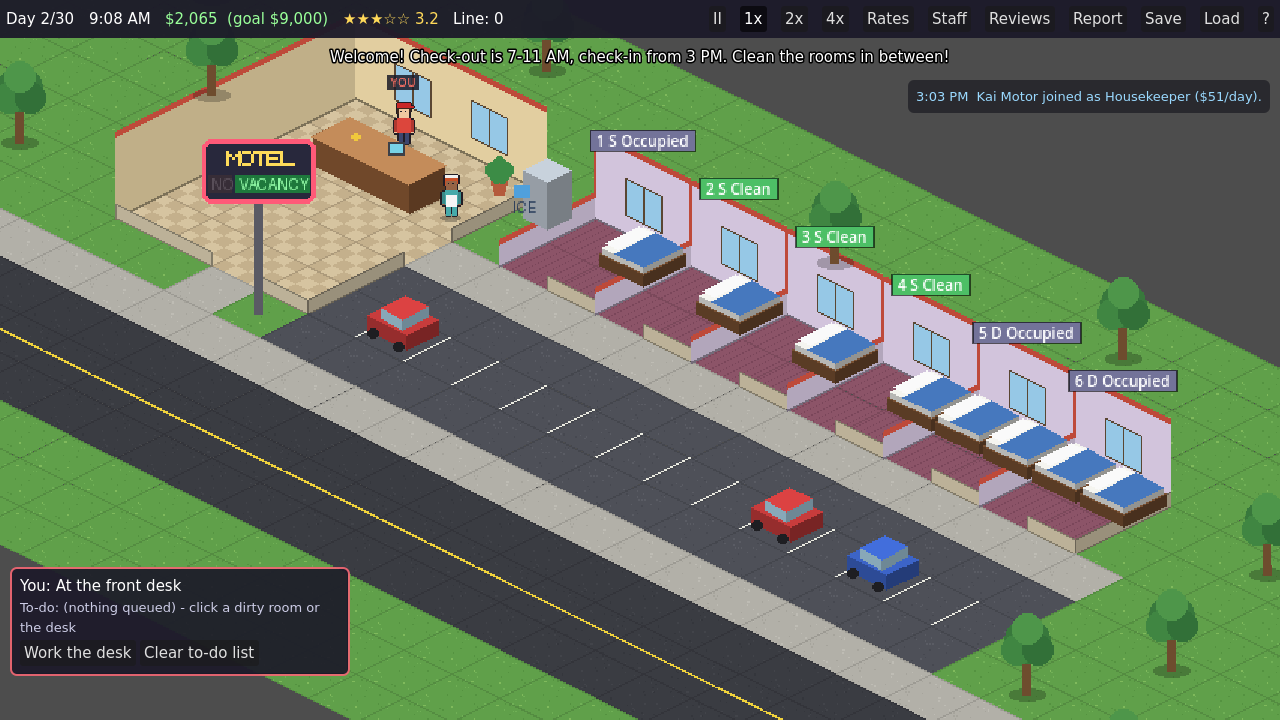
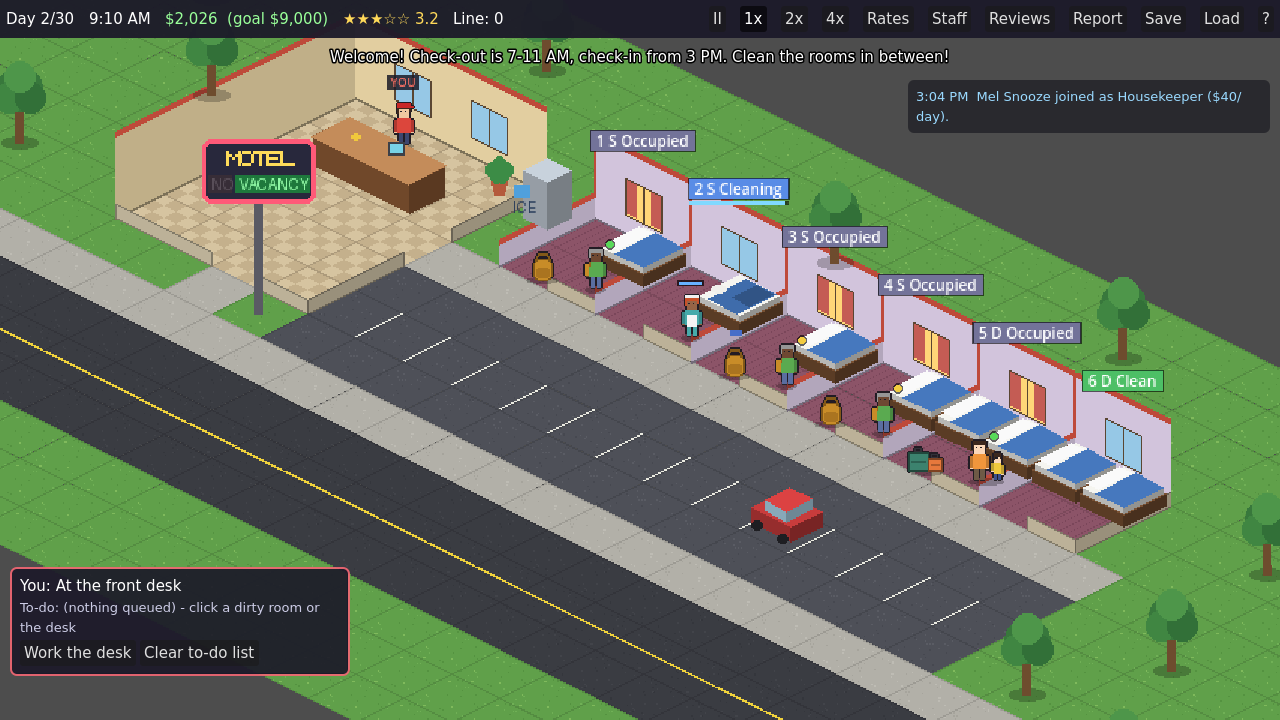
Show guests, luggage and lit windows in occupied rooms
Guests now settle at the foot of the bed and stay visible (with a z z
bubble at night). Occupied rooms get the guest's luggage on the floor
and a lit window with the curtains drawn.

Claude-Session: https://claude.ai/code/session_01CzRZpWr2BCEN1xii1ANM4A

diff --git a/tools/gen_art.py b/tools/gen_art.py
@@ -386,5 +386,53 @@ def icon():
     save(img, "icon")
 
 
+def window_lit():
+    """Same canvas as room_shell: the back window with the lights on and curtains half drawn."""
+    img, dr, ox, oy = canvas(2, 2, WALL_H)
+    x0, y0 = iso(1, 0, ox, oy)
+    frame = (90, 70, 50, 255)
+    dr.polygon([(x0 - 12, y0 - 18), (x0 + 12, y0 - 6), (x0 + 12, y0 - 30), (x0 - 12, y0 - 42)],
+               fill=(255, 214, 120, 255), outline=frame)
+    curtain = (196, 92, 84, 255)
+    for (a, b) in [(-11, -5), (5, 11)]:
+        # vertical strips that follow the wall's slope (y rises 1px per 2px of x)
+        dr.polygon([(x0 + a, y0 - 41 + (a + 12) // 2), (x0 + b, y0 - 41 + (b + 12) // 2),
+                    (x0 + b, y0 - 19 + (b + 12) // 2), (x0 + a, y0 - 19 + (a + 12) // 2)], fill=curtain)
+    dr.line([(x0, y0 - 12), (x0, y0 - 36)], fill=frame)
+    save(img, "window_lit")
+
+
+def luggage(kind):
+    """Small upright props left in an occupied room."""
+    img = Image.new("RGBA", (26, 24), (0, 0, 0, 0))
+    dr = ImageDraw.Draw(img)
+    dr.ellipse([2, 19, 23, 23], fill=(0, 0, 0, 60))
+
+    def case(x, y, w, h, col):
+        dr.rectangle([x, y, x + w, y + h], fill=col, outline=shade(col, 0.55))
+        dr.rectangle([x + w // 2 - 2, y - 3, x + w // 2 + 2, y - 1], outline=(50, 50, 56, 255))
+        dr.line([(x + 2, y + h // 2), (x + w - 2, y + h // 2)], fill=shade(col, 0.75))
+
+    if kind == "budget":       # a stuffed backpack slumped on the floor
+        dr.rounded_rectangle([7, 7, 19, 21], 4, fill=(200, 140, 40, 255), outline=(130, 88, 24, 255))
+        dr.rounded_rectangle([9, 13, 17, 19], 2, fill=(170, 116, 32, 255))
+        dr.line([(9, 7), (11, 3), (15, 3), (17, 7)], fill=(130, 88, 24, 255), width=2)
+    elif kind == "business":   # rolling carry-on with the handle up
+        dr.line([(10, 1), (10, 9)], fill=(70, 70, 78, 255), width=1)
+        dr.line([(16, 1), (16, 9)], fill=(70, 70, 78, 255), width=1)
+        dr.line([(10, 1), (16, 1)], fill=(70, 70, 78, 255), width=2)
+        dr.rectangle([7, 9, 19, 20], fill=(52, 58, 80, 255), outline=(30, 32, 44, 255))
+        dr.line([(9, 12), (17, 12)], fill=(80, 88, 116, 255))
+        dr.point([(9, 21), (17, 21)], fill=(20, 20, 24, 255))
+    else:                      # family: a big suitcase and a small one
+        case(1, 8, 13, 12, (60, 130, 110, 255))
+        case(14, 12, 9, 8, (230, 120, 60, 255))
+    outline(img)
+    save(img, "luggage_" + kind)
+
+
 icon()
+window_lit()
+for k in ("budget", "business", "family"):
+    luggage(k)
 print("art written to", os.path.abspath(OUT))
